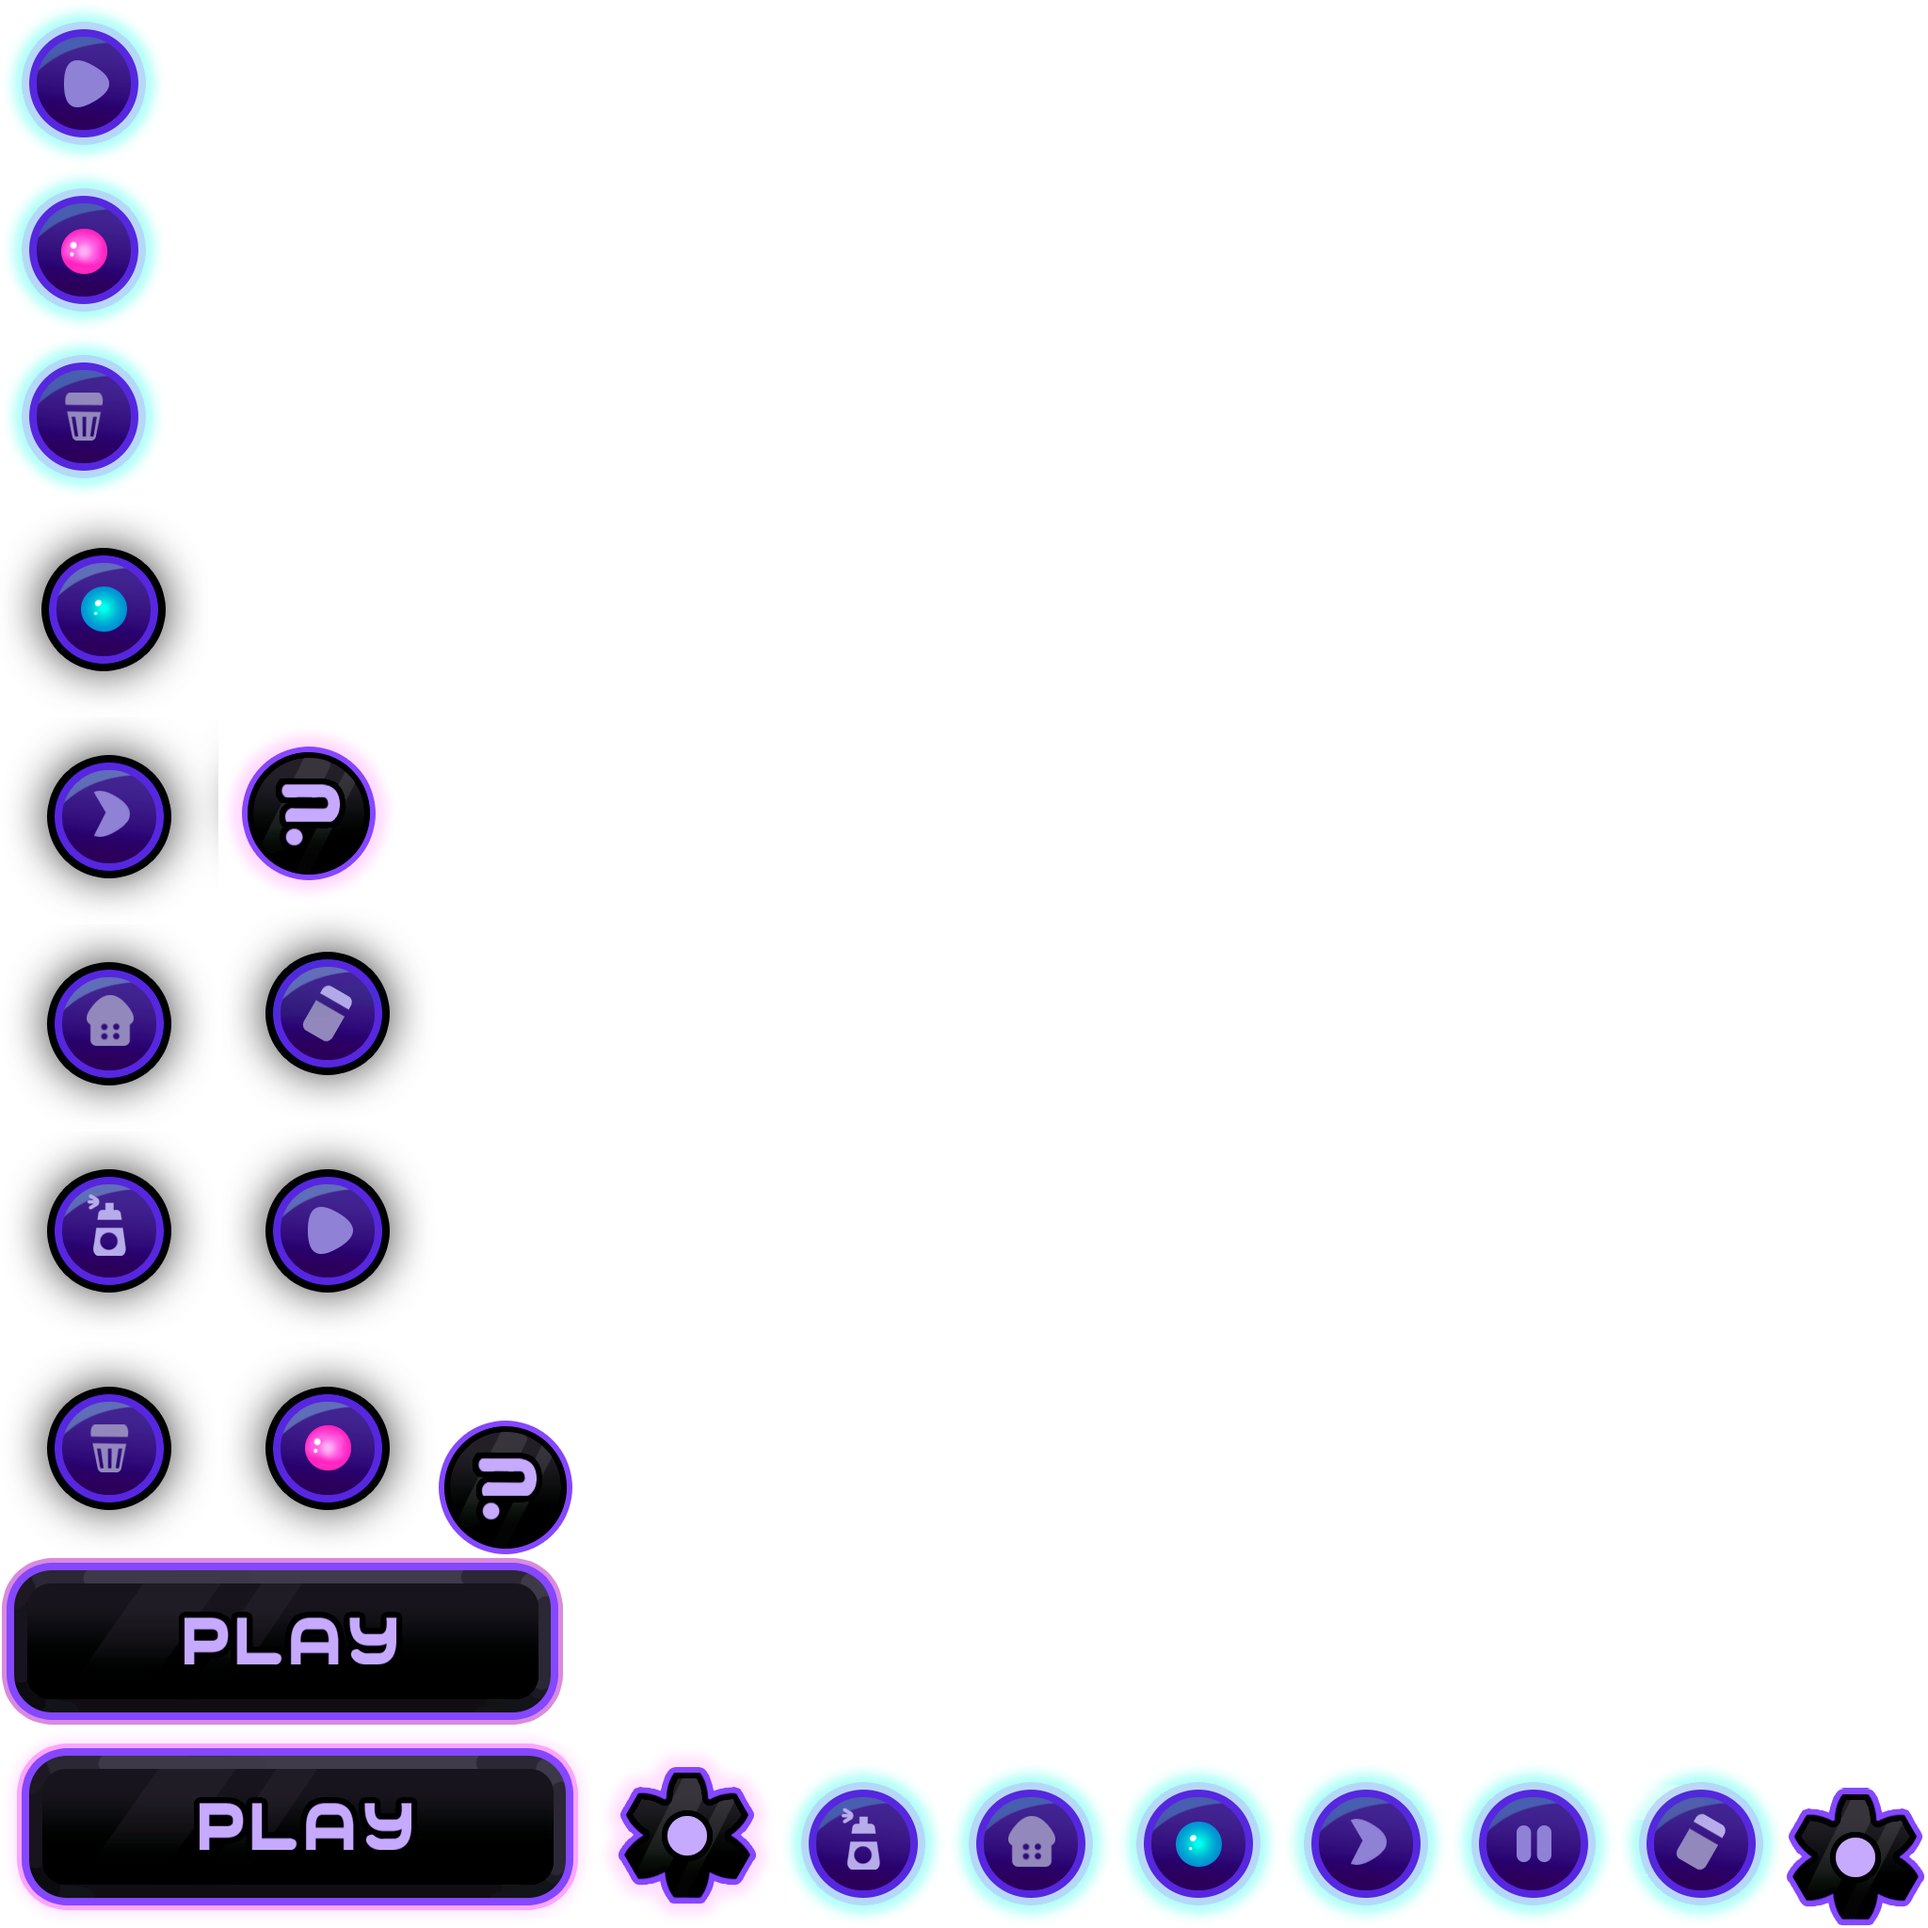
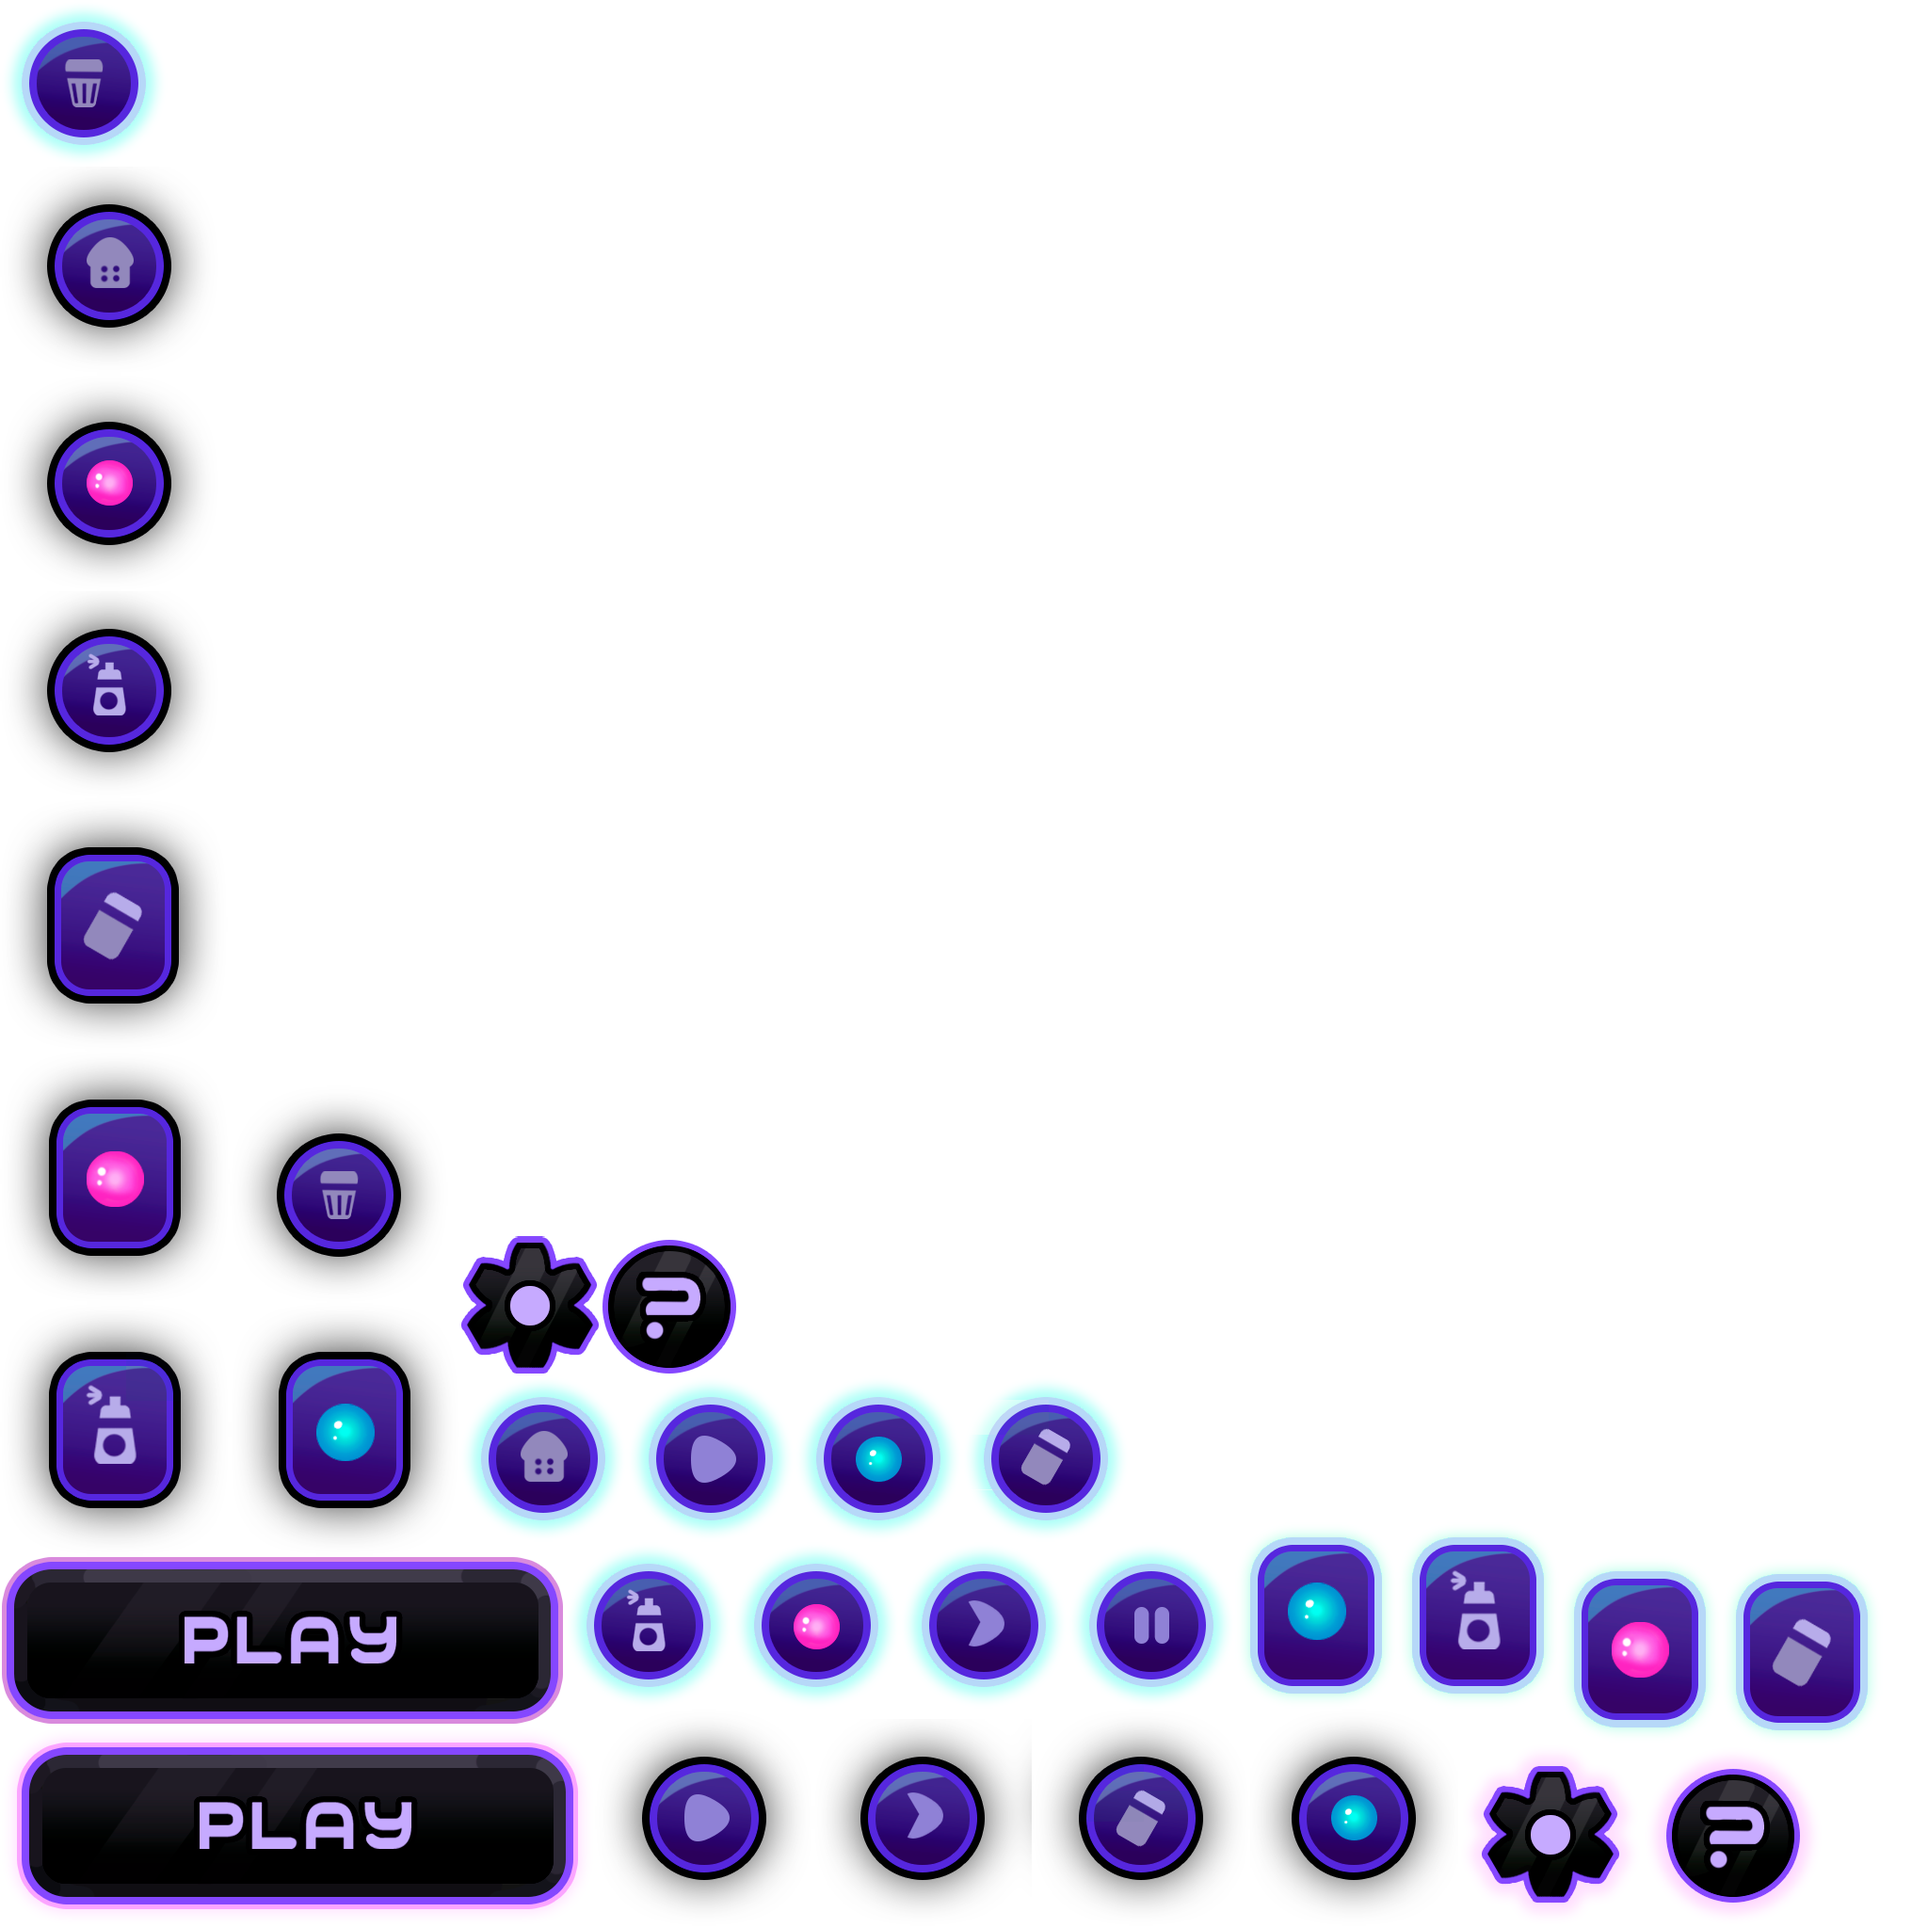
ui/gui redesign

Changed region(s): [[0.0, 0.0938, 1.0, 1.0], [0.0312, 0.0312, 0.0625, 0.0625]]

diff --git a/core/src/main/java/steelUnicorn/laplacity/ui/GameInterface.java b/core/src/main/java/steelUnicorn/laplacity/ui/GameInterface.java
@@ -15,6 +15,7 @@ import com.badlogic.gdx.scenes.scene2d.InputEvent;
 import com.badlogic.gdx.scenes.scene2d.Stage;
 import com.badlogic.gdx.scenes.scene2d.ui.Button;
 import com.badlogic.gdx.scenes.scene2d.ui.Cell;
+import com.badlogic.gdx.scenes.scene2d.ui.Image;
 import com.badlogic.gdx.scenes.scene2d.ui.ImageButton;
 import com.badlogic.gdx.scenes.scene2d.ui.Table;
 import com.badlogic.gdx.scenes.scene2d.utils.ClickListener;
@@ -45,6 +46,8 @@ public class GameInterface extends Stage implements GestureListener {
 	ImageButton pauseBtn;
 	Table guiTable;
 	Array<Actor> visibleActors;
+
+	Image selectedMode;
 	/**
 	 * Конструктор создающий интерфейс
 	 * @param viewport
@@ -73,14 +76,12 @@ public class GameInterface extends Stage implements GestureListener {
 		visibleActors = new Array<>();
 		//Dialogs initialize
 		returnDialog = new ReturnDialog(SKIN);
-
 		//FpsCounter
 		FpsCounter fpsCounter = new FpsCounter(SKIN);
 		addActor(fpsCounter);
 
 		//interface intitialize
 		Table root = new Table();
-		root.setDebug(true);
 		root.setFillParent(true);
 		addActor(root);
 
@@ -102,7 +103,6 @@ public class GameInterface extends Stage implements GestureListener {
 
 		//Icons Table
 		guiTable = new Table();
-		guiTable.setDebug(true);
 		root.add(guiTable).expandX().growY().right().uniform();
 		guiTable.defaults()
 				.width(iconSize)
@@ -111,7 +111,6 @@ public class GameInterface extends Stage implements GestureListener {
 
 		guiTable.add(createModeIcon("Protons", GameMode.PROTONS, LaplacityAssets.genStartSound)).top();
 		guiTable.add(createModeIcon("Electrons", GameMode.ELECTRONS, LaplacityAssets.genStartSound)).top();
-
 		//modes
 		flightBtn = createIcon("Flight", new ClickListener(){
 			@Override
@@ -136,11 +135,14 @@ public class GameInterface extends Stage implements GestureListener {
 		guiTable.add(vertical).colspan(3).right().growY();
 
 		vertical.defaults()
-				.width(iconSize)
-				.height(iconSize)
+				.size(iconSize)
 				.space(iconSpace);
 
-		vertical.add(createModeIcon("Eraser", GameMode.ERASER, LaplacityAssets.lightClickSound)).top();
+		vertical.add(createModeIcon("Eraser", GameMode.ERASER, LaplacityAssets.lightClickSound));
+		vertical.row();
+		vertical.add(createModeSelector())
+				.height(TEXSKIN.getDrawable("square_Eraser").getMinHeight()
+						/ TEXSKIN.getDrawable("square_Eraser").getMinHeight() * iconSize);
 		vertical.row();
 		vertical.add(createModeIcon("Dirichlet", GameMode.DIRICHLET, LaplacityAssets.sprayStartSound));
 		vertical.row();
@@ -160,6 +162,13 @@ public class GameInterface extends Stage implements GestureListener {
 	 * для изменения вида gui
 	 */
 	public void updateCurMode() {
+		if (currentGameMode != GameMode.FLIGHT && currentGameMode != GameMode.NONE) {
+			selectedMode.setDrawable(TEXSKIN.getDrawable("square_" + currentGameMode.getName()));
+			selectedMode.setVisible(true);
+		} else {
+			selectedMode.setVisible(false);
+		}
+
 		if (currentGameMode == GameMode.FLIGHT) {
 			flightCell.setActor(pauseBtn);
 			for (Actor actor : visibleActors) {
@@ -210,7 +219,13 @@ public class GameInterface extends Stage implements GestureListener {
 			}
 		});
 	}
-	
+
+	private Image createModeSelector() {
+		selectedMode = new Image();
+		selectedMode.setVisible(false);
+		return selectedMode;
+	}
+
 	@Override
 	public boolean touchDown(float x, float y, int pointer, int button) {
 		return false;
